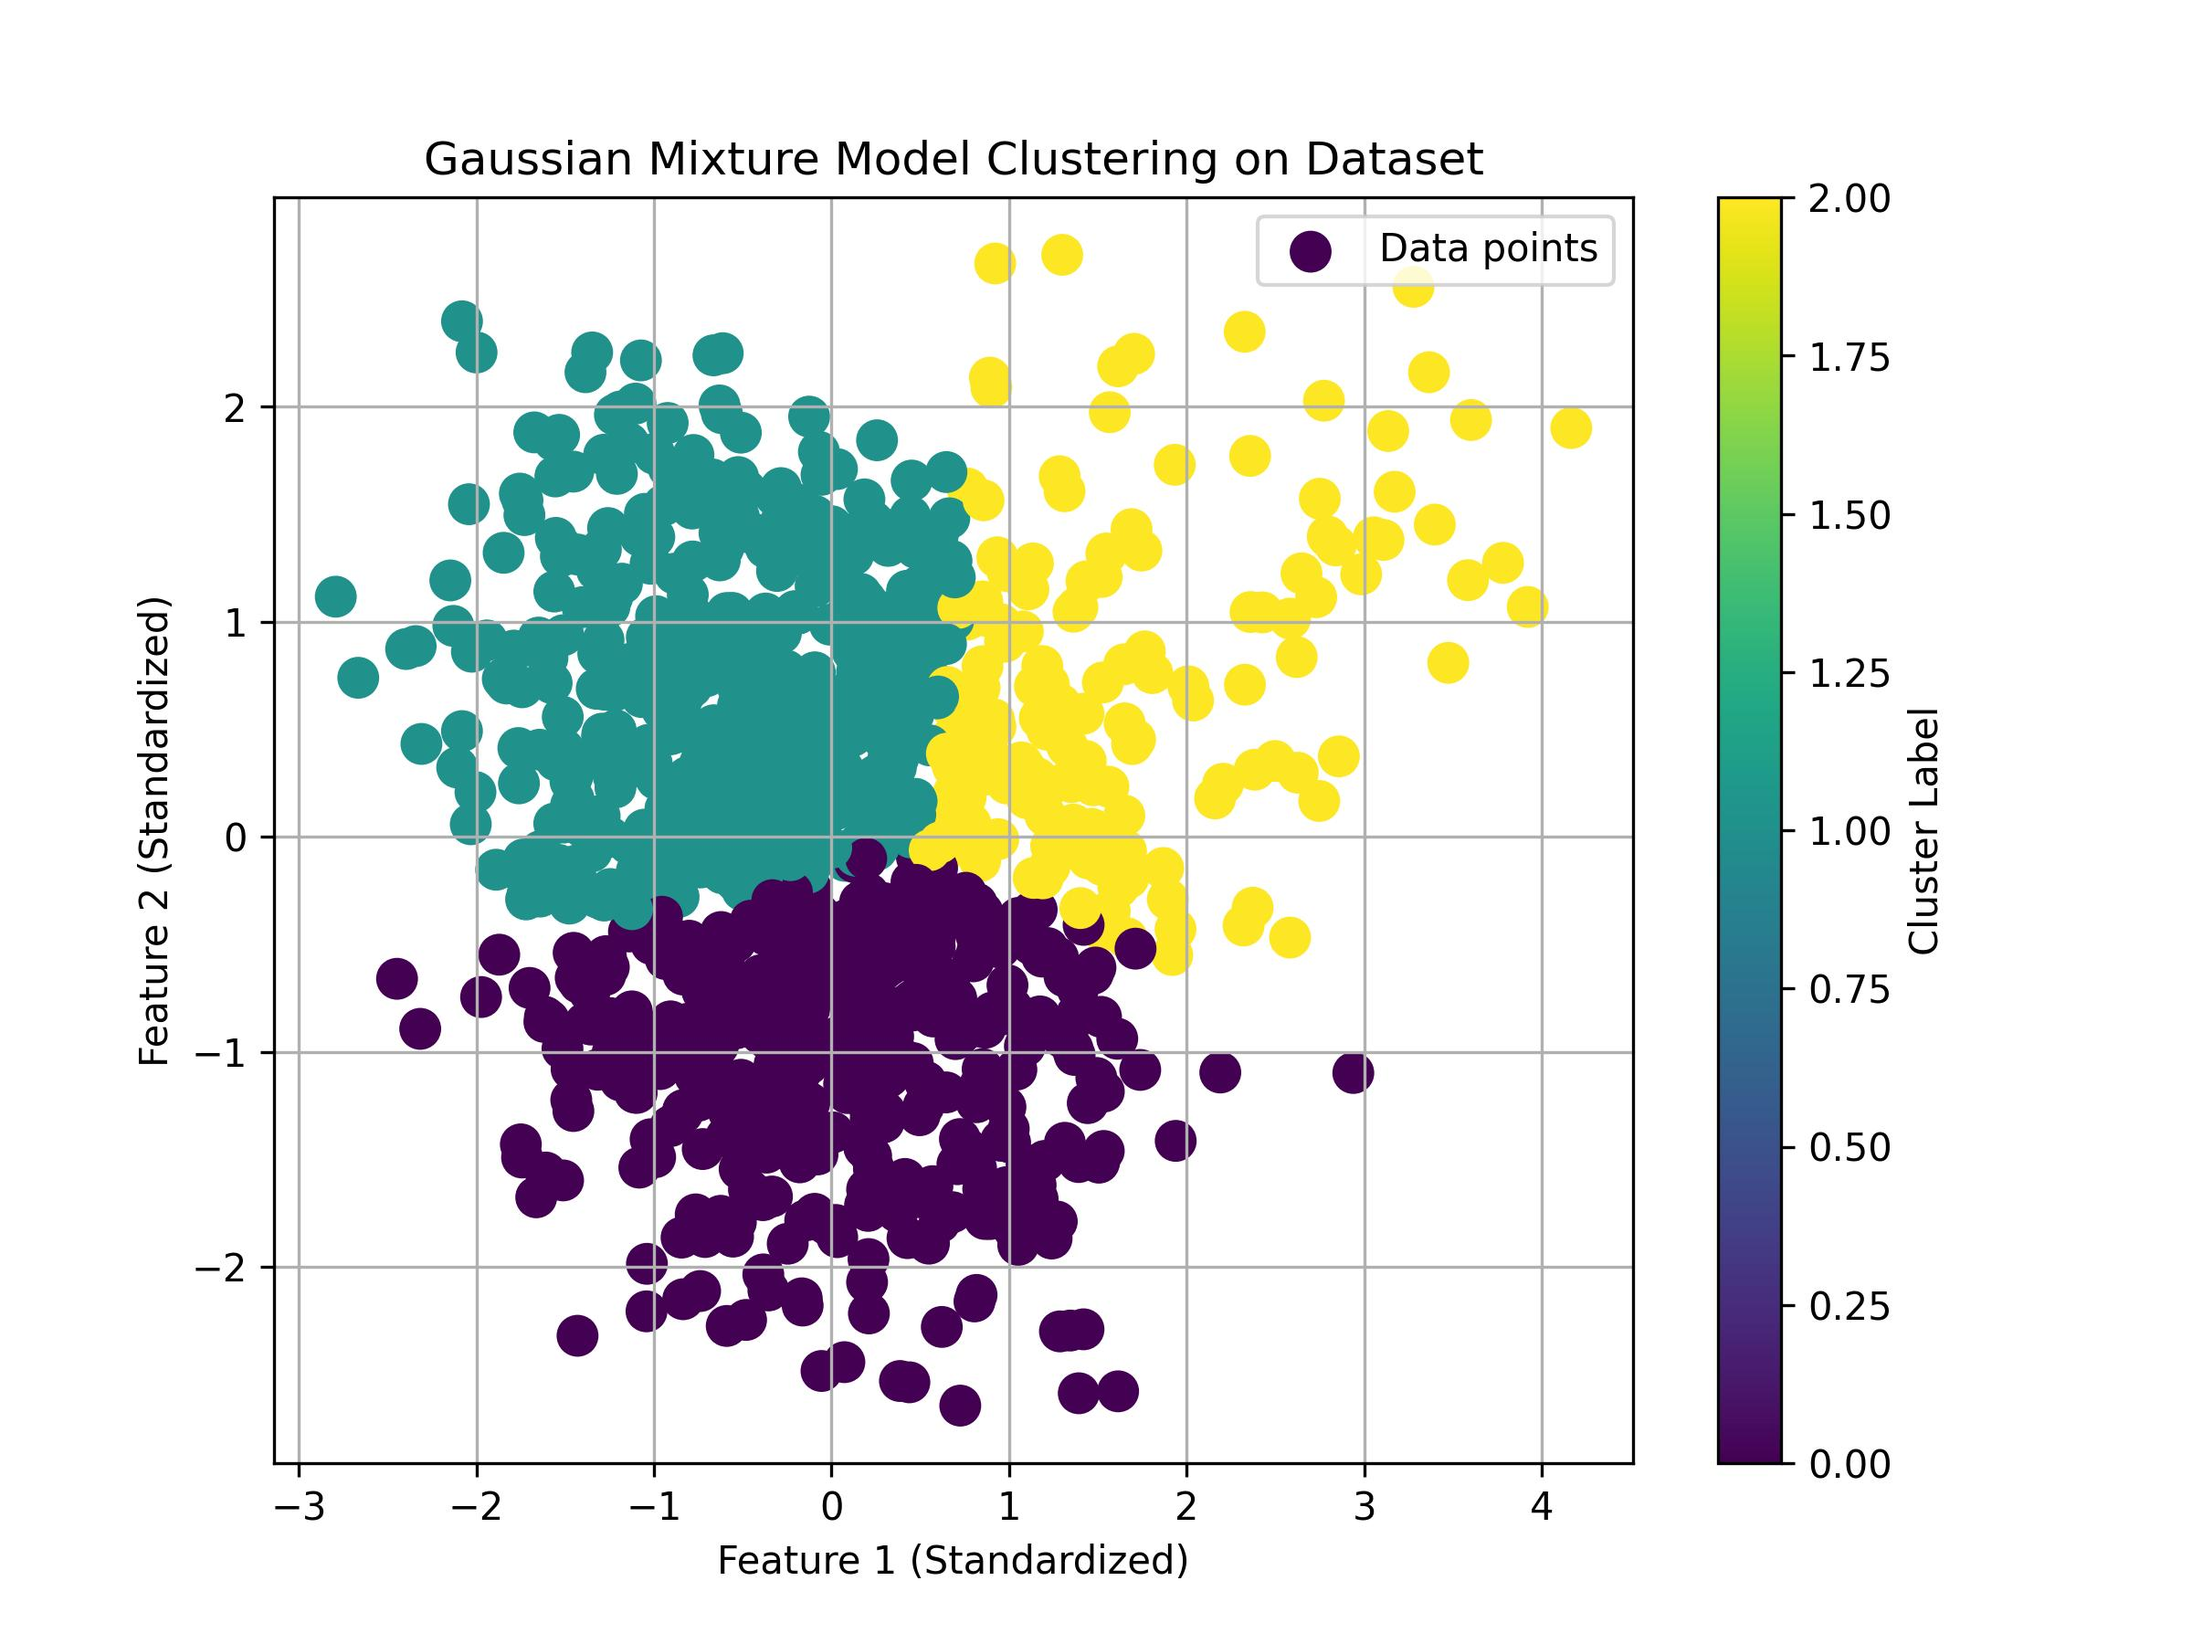
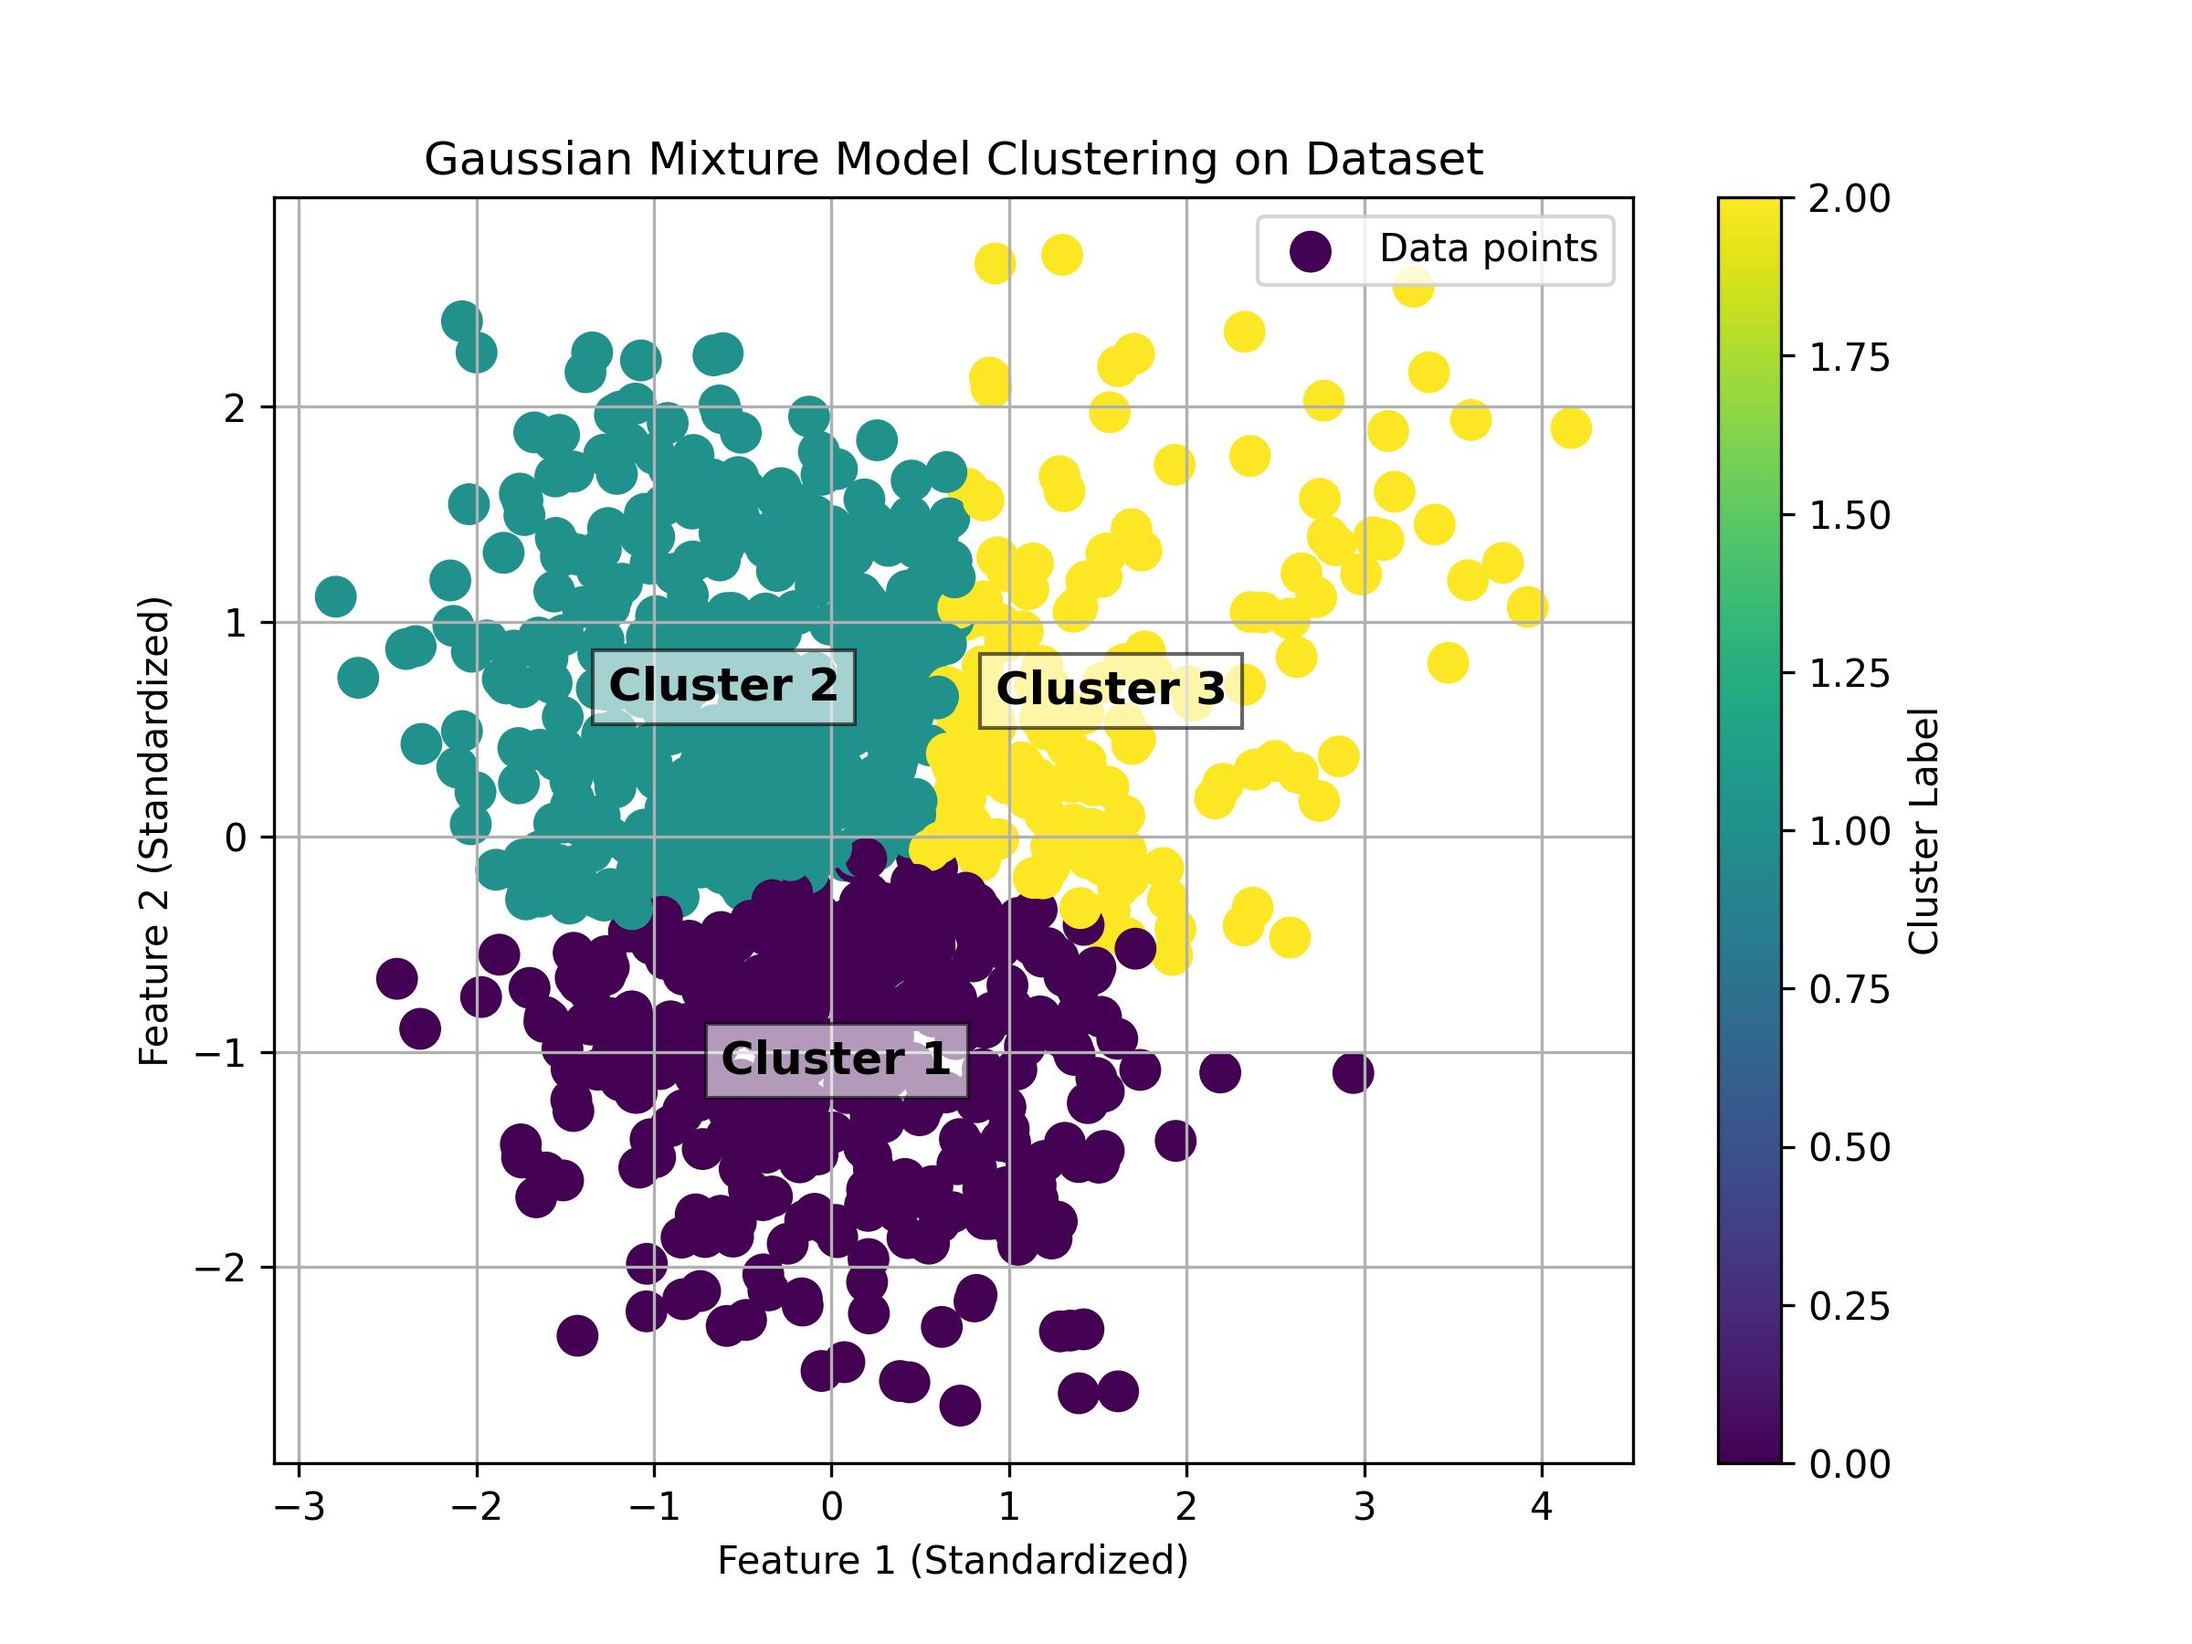
graph done

Changed region(s): [[0.25, 0.3733, 0.4062, 0.4667], [0.4375, 0.3733, 0.5938, 0.4667], [0.3125, 0.6222, 0.4688, 0.6844]]

diff --git a/Code/evaluate.py b/Code/evaluate.py
@@ -24,6 +24,7 @@
         # Python 3.11.5
         # Streamlit 1.36.0
 
+import numpy as np
 from sklearn.metrics import silhouette_score
 import matplotlib.pyplot as plt
 
@@ -35,9 +36,26 @@ def evaluate_model(X_pca, labels, algorithm_name, centroids = None):
     # Scatter plot of the data points colored by cluster label
     plt.scatter(X_pca[:, 0], X_pca[:, 1], c=labels, cmap='viridis', marker='o', s=100, label="Data points")
 
-    # Plot the centroids on the same plot
-    if(centroids is not None):
+    # Plot the centroids on the same plot if present
+    if centroids is not None:
         plt.scatter(centroids[:, 0], centroids[:, 1], c='red', s=200, marker='x', label="Centroids")
+        
+        # Add cluster names near the centroids
+        for i, centroid in enumerate(centroids):
+            plt.text(centroid[0], centroid[1], f'Cluster {i+1}', fontsize=12, fontweight='bold',
+                    ha='center', va='center', color='black', bbox=dict(facecolor='white', alpha=0.6, edgecolor='black'))
+    else:
+        # If centroids are not provided, calculate the mean position of each cluster
+        for cluster in np.unique(labels):
+            # Get the points belonging to this cluster
+            cluster_points = X_pca[labels == cluster]
+            
+            # Compute the mean position of the cluster points
+            cluster_mean = np.mean(cluster_points, axis=0)
+            
+            # Add cluster name at the mean position
+            plt.text(cluster_mean[0], cluster_mean[1], f'Cluster {cluster + 1}', fontsize=12, fontweight='bold',
+                    ha='center', va='center', color='black', bbox=dict(facecolor='white', alpha=0.6, edgecolor='black'))
 
     # Adding title and labels
     plt.title(f'{algorithm_name} Clustering on Dataset')
@@ -48,4 +66,5 @@ def evaluate_model(X_pca, labels, algorithm_name, centroids = None):
     plt.colorbar(label='Cluster Label')
     plt.savefig(f'Code/saved images/{algorithm_name}.jpg', format="jpg", dpi=300)
     plt.show()
+
     return silhouette_avg

diff --git a/Code/app.py b/Code/app.py
@@ -162,7 +162,7 @@ with tab2:
 
 
 with tab3:
-    algorithm = st.selectbox("Select algorithm:", ("KMeans", "DBSCAN", "Gaussian Mixture Model", "OPTICS", "BIRCH"))
+    algorithm = st.selectbox("Select algorithm:", ("K-Means", "DBSCAN", "Gaussian Mixture Model", "OPTICS", "BIRCH"))
     
     
     with st.form(key="clustering_form"):
@@ -192,5 +192,6 @@ with tab3:
         if st.form_submit_button("Cluster", use_container_width=True):
             new_cluster = classify(algorithm, items)
             st.write(f"The Data belong to {new_cluster}")
+            st.image(f"Code/saved images/{algorithm}.jpg", caption=f"Cluster graph of {algorithm}", width=600)
 
     

diff --git a/Code/classification.py b/Code/classification.py
@@ -33,7 +33,7 @@ from ingest_transform import preprocess_test, scale_back
 
 def classify(algorithm, items):
     scaled_data = scale_back(items)
-    if(algorithm == 'KMeans'):
+    if(algorithm == 'K-Means'):
         model = joblib.load('Code\saved model\kmeans.pkl')
         clusters = model.predict(scaled_data)
         return clusters
